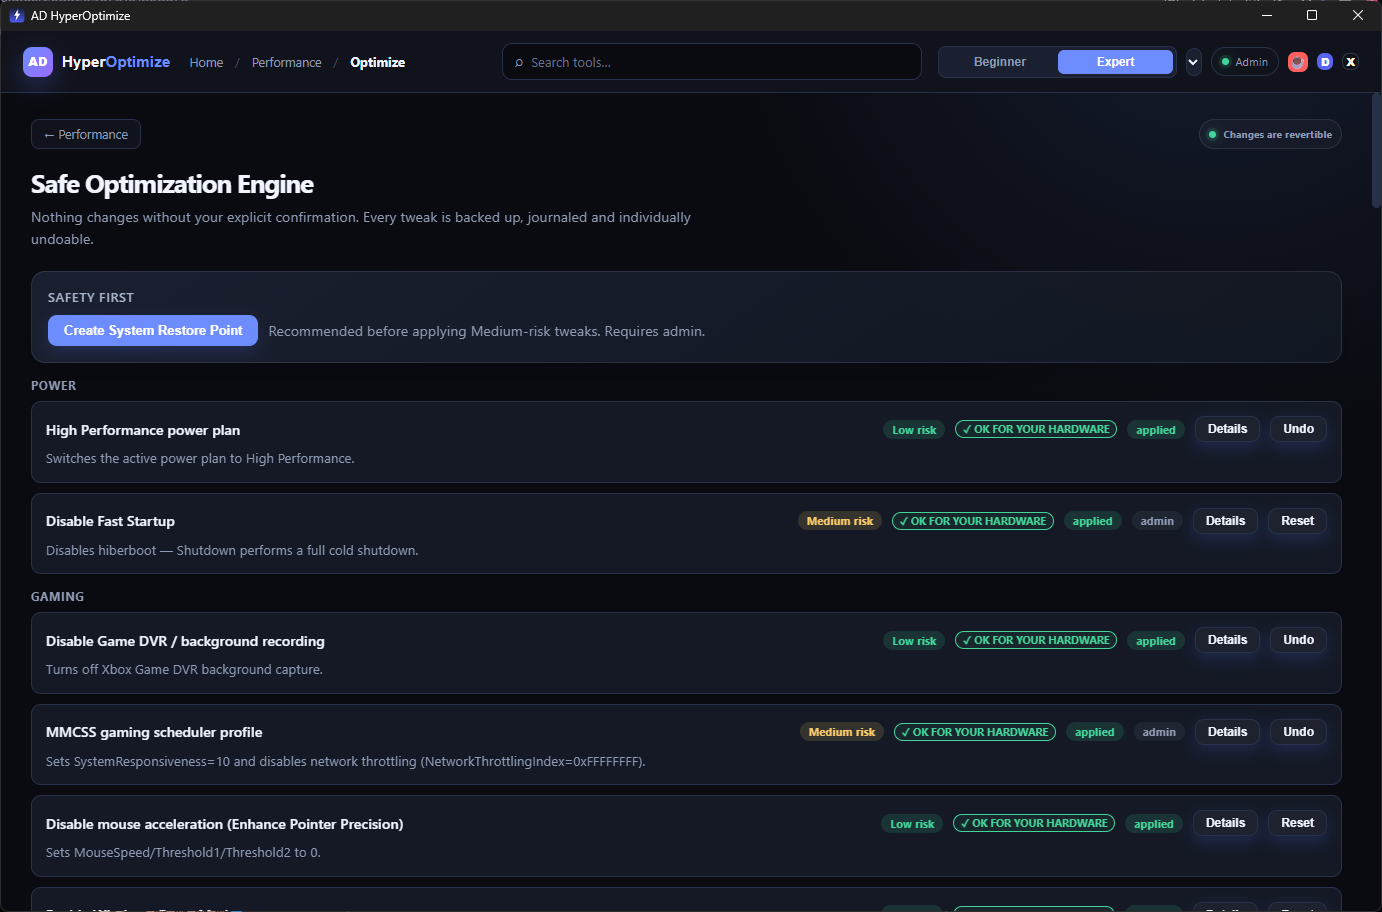
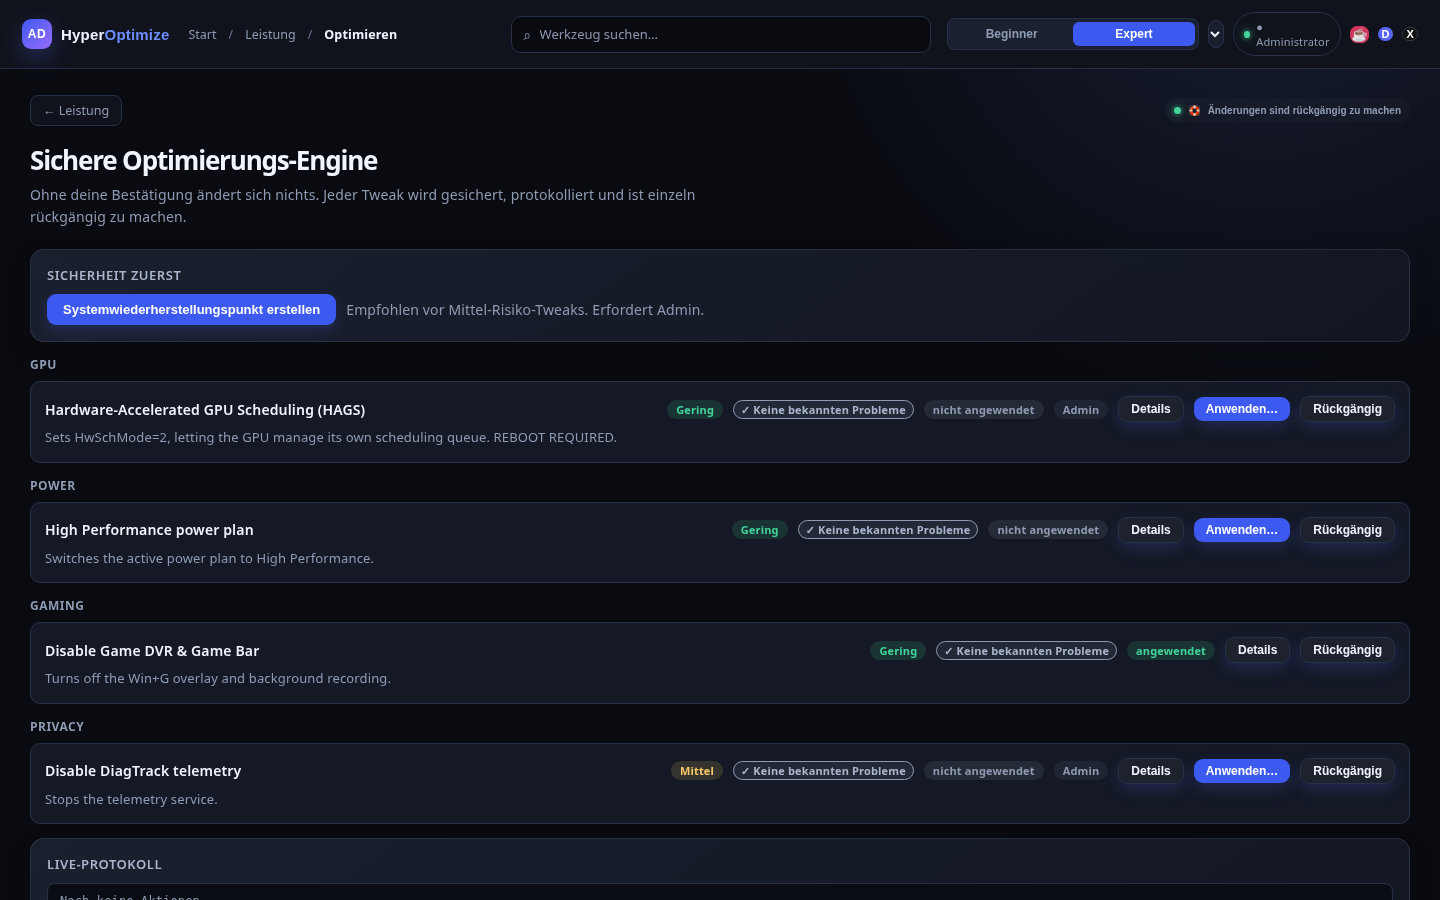
docs: refresh README to current 36-tool state (topbar shell, feature search, fixed Discord link, updated roadmap) + new changelog + regenerated screenshots

Changed region(s): [[0.0, 0.0, 1.0, 1.0], [0.4667, 0.4356, 0.9645, 0.4978], [0.3734, 0.0311, 0.4667, 0.0933]]

diff --git a/README.md b/README.md
@@ -10,7 +10,7 @@ No registry-cleaner snake oil. Only documented, measurable tweaks — journaled,
 [![Stars](https://img.shields.io/github/stars/zCrxticxl/ad-hyperoptimize?style=for-the-badge&logo=github&color=7c5cff&labelColor=0b0d14)](https://github.com/zCrxticxl/ad-hyperoptimize/stargazers)
 [![License](https://img.shields.io/github/license/zCrxticxl/ad-hyperoptimize?style=for-the-badge&color=38bdf8&labelColor=0b0d14)](LICENSE)
 [![Last commit](https://img.shields.io/github/last-commit/zCrxticxl/ad-hyperoptimize?style=for-the-badge&color=4ade80&labelColor=0b0d14)](https://github.com/zCrxticxl/ad-hyperoptimize/commits)
-[![Discord](https://img.shields.io/badge/Discord-join-5865F2?style=for-the-badge&logo=discord&logoColor=white&labelColor=0b0d14)](https://discord.gg/GPcTdABdcY)
+[![Discord](https://img.shields.io/badge/Discord-join-5865F2?style=for-the-badge&logo=discord&logoColor=white&labelColor=0b0d14)](https://discord.gg/vFaKsVuxKP)
 
 <a href="https://www.buymeacoffee.com/zCrxticxl"><img src="https://img.buymeacoffee.com/button-api/?text=donation for the work :)&emoji=&slug=zCrxticxl&button_colour=FF5F5F&font_colour=ffffff&font_family=Cookie&outline_colour=000000&coffee_colour=FFDD00" alt="Buy me a coffee" /></a>
 
@@ -50,18 +50,63 @@ Because most Windows "optimizers" are placebo generators. AD HyperOptimize takes
 |---|---|
 | "Cleans" the registry | Only documented, measurable tweaks (MMCSS, Game DVR, power plans, telemetry policy…) |
 | Changes things silently | Per-tweak confirm with **what / why / impact / risk / reversibility** |
-| No way back | Write-ahead journal + `.reg` backups — tweaks undo to their prior state; some resets restore Windows defaults |
+| No way back | Write-ahead journal + `.reg` backups + **exact captured-state undo** — tweaks restore to their prior value, not a guess |
 | Phones home | **Zero telemetry.** Nothing is sent online |
 
 ## ✨ Features
 
+**Overview**
 - 🩺 **Health Score** — rule-based findings engine scans WMI, SMART, boot, event logs, DNS & network and turns it into one score with concrete findings
-- 📊 **Live Monitor** — 1-second real-time metrics stream (CPU, GPU, RAM, disk, temps) straight into the dashboard
-- 🎮 **Gaming tweaks** — MMCSS profile, Game DVR/Game Bar, power plans, latency-focused options. Built by someone who plays comp R6, not a checkbox farm
+- ⚡ **Auto-Optimizer** — applies the recommended low-risk tweaks in one click, with a real risk label per item and a confirmation step
+- 🩺 **Health Check** — SFC / DISM / component scans with honest result states
+
+**Performance**
+- 🎮 **Optimize** — the journaled tweak engine: every tweak shows risk, hardware check, impact, reversibility; undo is one click (HAGS, power plans, Game DVR, MMCSS…)
+- 🎮 **Game Booster / Quick Boost** — priority/affinity + power plan + HAGS snapshot with an independent per-run restore token
+- 🔌 **Power Plans** — set / create / delete / unlock Ultimate, per-scheme
+- ⚙ **Perf Tweaks** — timer resolution, MSI mode, network adapter tweaks, RAM standby flush, pagefile
+- 📉 **Latency Analyzer** — DPC/ISR counters, stall probe, and full **WPR** deep-trace recording
+- 🖼 **GPU Tweaks** — NVIDIA/AMD driver-key tweaks with hardware-aware risk gating
+- 🎛 **NVIDIA Settings** — direct control-panel value tweaks
+- 📁 **Profiles** — curated tweak bundles (with optional before/after benchmark)
+- 🕹 **Game Profiles** — per-game presets + auto power-plan switcher
+
+**Cleanup**
 - 🧹 **Cleanup** — whitelisted cache/temp roots only; locked files skipped, never forced
-- 🛡 **Security center** — audits Defender, firewall, unsigned drivers, autoruns and the hosts file, and offers **explicit, opt-in** controls to change them (e.g. toggle Defender realtime, edit hosts, disable tasks, remove drivers). Nothing changes without a click.
+- 🗑 **Uninstaller** — remove apps and scan/clean leftovers (validated paths only)
+- 💾 **Disk Analyzer** — largest files, duplicates (SHA-256), old temp files, auto-organize
+- 📦 **Debloater** — telemetry/ads/UX registry tweaks + preinstalled UWP removal, with exact capture/restore
+- 🗂 **Registry Cleaner** — dead-entry scan with real `.reg` backups and a **Restore…** panel
+- 🖱 **Context-Menu Cleaner** — remove bloat entries from the Explorer context menu
+
+**Protection**
+- 🛟 **Restore Points** — create / list / delete, or launch the system tool
+- 🕵 **Privacy Center** — telemetry, advertising ID, activity history, location… with per-item undo
+- 🔒 **Security Center** — audits Defender, firewall, unsigned drivers, autoruns and the hosts file, and offers **explicit, opt-in** controls to change them. Nothing changes without a click.
+
+**System**
+- 🧩 **Hardware** — specs, boot-time analysis, SMART disk health
+- 📈 **Live Monitor** — 1-second CPU / RAM / network / disk metrics
+- 🌡 **HW Monitor** — CPU/GPU temperatures (nvidia-smi), S.M.A.R.T., fans (10 s refresh)
+- 📑 **Process Manager** — list / kill / priority / affinity / persistent priorities
+- 🚦 **Startup** — run-key + folder entries, reversible toggles
+- 🔧 **Services** — bloat-aware service audit, startup type + start/stop
+- ⏰ **Scheduled Tasks** — disable/enable bloat tasks
+- 💿 **Drivers** — list, age/unsigned flags, winget + Windows Update installs
+- 🥾 **Boot Optimizer** — bcdedit tweaks with exact undo
+- 🔄 **Updates** — winget app updates + Windows Update driver installs
+- 📥 **Software Installer** — curated winget catalog with live per-app status
+- 🛠 **PC Configurator** — hardware bottleneck analysis + build/upgrade guidance
+- ⚙ **Settings** — language, Beginner/Expert mode, clear scan cache
+
+**Analysis**
 - 🏁 **Benchmarks** — CPU / memory / disk with history
-- 📄 **Reports** — dark-mode HTML + JSON exports (print → PDF)
+- 📄 **Reports** — dark-mode HTML + JSON exports and the full change journal
+
+**Navigation & search**
+- 🔍 **Feature search** — type a tweak, service, task or tool name (e.g. "HAGS", "DiagTrack") and jump straight to it, highlighted. Searches across every toggleable feature.
+- 🕘 **Recently used** — quick access to your last tools on the home screen
+- ⌨ **Keyboard** — `/` focuses the search, `Esc` clears it
 - 🔰 **Beginner ⇄ Expert mode** — same engine, two levels of detail
 
 ## 🛟 Safety model (the important part)
@@ -75,8 +120,9 @@ confirm → (recommended: restore point) → .reg backup → write-ahead journal
 
 1. **Write-ahead journaling** — previous values are captured to `journal.json` *before* anything is mutated. Failed applies roll back automatically.
 2. **Registry backups** — every touched key exported via `reg.exe` first.
-3. **Restore points** — one click, surfaced before medium-risk tweaks.
-4. **Runs elevated** — most system tweaks need administrator rights, so the app requests elevation at launch (UAC). Tauri capabilities expose no FS/network surface to the webview.
+3. **Exact captured-state undo** — where a change can be snapshotted, the prior state (registry value, service start type, power plan, toast setting) is captured to a state file and restored exactly on undo — never a guessed default. This powers the Debloater, Game Boost and Quick Boost.
+4. **Restore points** — one click, surfaced before medium-risk tweaks.
+5. **Runs elevated** — most system tweaks need administrator rights, so the app requests elevation at launch (UAC). The webview is granted no direct filesystem/HTTP plugin access; opening files/URLs goes only through a validated `cmd_open_path`, and network is limited to the built-in updater.
 
 ## 📥 Get it
 
@@ -112,21 +158,50 @@ npm run tauri build   # NSIS .exe + .msi in src-tauri/target/release/bundle/
 
 ```
 src/                      # React + TS frontend
-├── App.tsx               # Shell: sidebar, beginner/expert mode, admin badge
+├── App.tsx               # Shell: topbar + category launcher, search, mode, recents
 ├── api.ts                # Typed invoke() wrappers + metrics event stream
-└── pages/                # Dashboard, Hardware, Monitor, Optimize,
-                          # Cleanup, Security, Benchmark, Reports
+├── pages/                # 36 tool pages (Dashboard, Optimize, Security, Debloater, …)
+└── components/           # ui primitives, HwWarnings, Onboarding
+
 src-tauri/src/
-├── ps.rs                 # PowerShell/exec bridge (no console flashes)
+├── ps.rs                 # PowerShell/exec bridge (timeouts, no console flashes)
+├── lib.rs                # Tauri commands, admin-relaunch, command wiring
 ├── scan.rs               # WMI/SMART/boot/event/DNS/network analysis
 ├── monitor.rs            # 1s real-time metrics thread → "metrics" events
+├── analysis.rs           # Rule-based findings engine + health score
 ├── tweaks.rs             # Declarative tweak catalog + apply/revert engine
 ├── safety.rs             # Restore points, .reg backups, write-ahead journal
+├── cache.rs              # Persistent scan cache
 ├── cleanup.rs            # Whitelisted-roots cache/temp cleaner
-├── security.rs           # Defender/firewall/drivers/autoruns/hosts — audit + opt-in controls
+├── security.rs           # Defender/firewall/drivers/autoruns/hosts
+├── regclean.rs           # Registry orphan scan + .reg backup/restore
+├── debloater.rs          # Registry tweaks (capture/restore) + UWP removal
+├── gameboost.rs          # Game/Quick Boost with per-run restore token
+├── gameprofile.rs        # Per-game presets + auto power-plan switcher
+├── gputweaks.rs          # GPU driver-key tweaks
+├── bootopt.rs            # bcdedit tweaks
+├── perftweaks.rs         # timer / MSI / network / RAM / pagefile
+├── powerplan.rs          # power plan list/set/create/delete
+├── latency.rs            # DPC/ISR counters + WPR recording
 ├── bench.rs              # CPU/memory/disk benchmarks + history
-├── analysis.rs           # Rule-based findings engine + health score
-└── report.rs             # Dark HTML + JSON reports
+├── hwmonitor.rs          # temps / S.M.A.R.T. / fans
+├── hwprofile.rs          # hardware detection + warnings
+├── diskanalyzer.rs       # largest/duplicates/temp-age/organize
+├── procmgr.rs            # process kill/priority/affinity
+├── startup.rs            # startup entries
+├── services.rs           # services + bloat audit
+├── schedtasks.rs         # scheduled tasks
+├── drivers.rs            # driver list + winget/pnputil/WU
+├── updates.rs            # winget app + WU driver updates
+├── softwareinstaller.rs  # curated winget catalog
+├── uninstaller.rs        # uninstall + validated leftover clean
+├── ctxmenu.rs            # context-menu cleaner
+├── privacy.rs            # privacy/telemetry tweaks
+├── autoopt.rs            # auto-optimizer
+├── healthcheck.rs        # SFC/DISM runner
+├── profiles.rs           # tweak bundles
+├── report.rs             # Dark HTML + JSON reports
+└── procmgr.rs / gamedb.rs / hardware helpers…
 ```
 
 **Extending the catalog:** add one `Tweak {}` block in `tweaks.rs` — status detection, backup, journaling, confirm UI and undo come free.
@@ -135,15 +210,15 @@ src-tauri/src/
 
 ## 🗺 Roadmap
 
-- [ ] ETW / DPC latency tracing (`xperf` integration point exists in `scan.rs`)
-- [ ] Crash-dump parsing
-- [ ] GPU vendor APIs (NVML / ADL)
+- [x] **ETW / DPC latency tracing** — per-core DPC/ISR counters + full `wpr.exe` deep-trace recording (`latency.rs`)
+- [x] **Code-signed releases** — conditional Authenticode signing in the release workflow
+- [ ] Crash-dump parsing (currently only lists `Minidump` files)
+- [ ] GPU vendor APIs (NVML / ADL) — today via `nvidia-smi` CLI + WMI
 - [ ] In-game overlay (transparent Tauri window fed by the metrics stream)
-- [ ] Code-signed releases
 
 ## 🤝 Community & support
 
-Questions, bug reports, tweak suggestions → [**Discord**](https://discord.gg/GPcTdABdcY) or [open an issue](https://github.com/zCrxticxl/ad-hyperoptimize/issues).
+Questions, bug reports, tweak suggestions → [**Discord**](https://discord.gg/vFaKsVuxKP) or [open an issue](https://github.com/zCrxticxl/ad-hyperoptimize/issues).
 
 If this saved your frametimes, a ⭐ keeps the project visible.
 

diff --git a/CHANGELOG-v1.5.0.md b/CHANGELOG-v1.5.0.md
@@ -1,0 +1,28 @@
+# v1.5.0 (unreleased) — UI/UX audit, full i18n, feature search
+
+> Draft changelog for the next release. Cut the tag + version bump when ready.
+
+## What's new
+
+- **Feature search across everything.** The top search now finds not just tool names but individual tweaks, services, startup entries, scheduled tasks, GPU tweaks and privacy/debloater items — and jumps straight to the feature, highlighted. Type "HAGS" or "DiagTrack" and click through.
+- **Settings page.** Language (all 9), Beginner/Expert mode, and a "clear scan cache" action — in one place.
+- **Recently used.** The home screen shows your last tools for one-click return.
+- **Keyboard shortcuts.** `/` focuses the search, `Esc` clears it.
+
+## UI/UX audit (28 proposals)
+
+- **Trust & honesty.** Auto-Optimizer now shows real per-item risk and confirms before applying; Health Check no longer shows a green "all good" while checks are still running; the hardware risk badge says "no known issue" instead of a confident "OK"; destructive actions (registry clean, debloater removal, game-booster kill, leftover clean) all require confirmation.
+- **Errors never swallowed.** Action buttons surface failures; every page reports loading / done / failed honestly instead of hanging or claiming success.
+- **Full i18n.** ~150 hardcoded English strings routed through the translation system — Optimize and Security are now fully translated in all 9 languages; proper singular/plural (German "1 Werkzeug", "1 Befund").
+- **Accessibility.** Primary button contrast fixed to WCAG AA; visible keyboard focus on every control; reduced-motion support; real heading structure (h1/h2) and table headers; keyboard-operable cards; copyable technical text.
+- **Consistency & responsive.** Single design-token palette, removed dead CSS, fixed undefined variables; tweak rows wrap and tables scroll on narrow windows.
+
+## Fixes
+
+- Optimize page no longer renders a blank window (a shadowed `t` variable crashed the render).
+- Debloater applied status no longer flips back to "not applied" after applying (uses the captured state as fallback + re-scans).
+- Live Monitor now shows data on the first open (subscribes before starting, with a connecting state).
+- Vite dev watcher no longer crashes with `EBUSY` on Windows (ignores the Rust `target/` dir).
+- Navigation renames for clarity: "Energieplan", "Bloatware entfernen", "Auslastung", "Temperaturen & Sensoren", "NVIDIA-Einstellungen", "Verlauf & Berichte" (36 tools, was mislabeled 39).
+
+Free, source-available, zero telemetry. Undo is built in, and a restore point before bigger changes is still smart.
